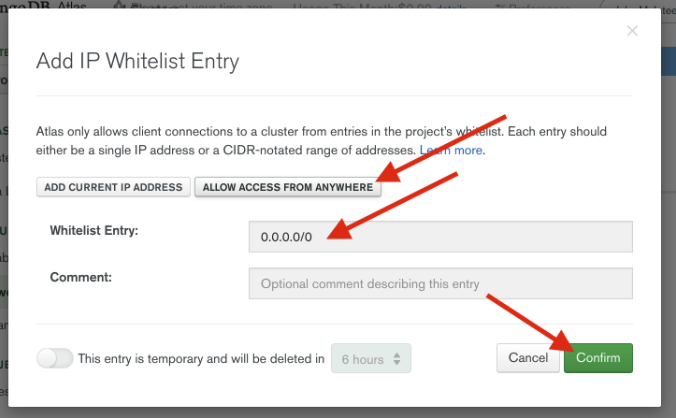
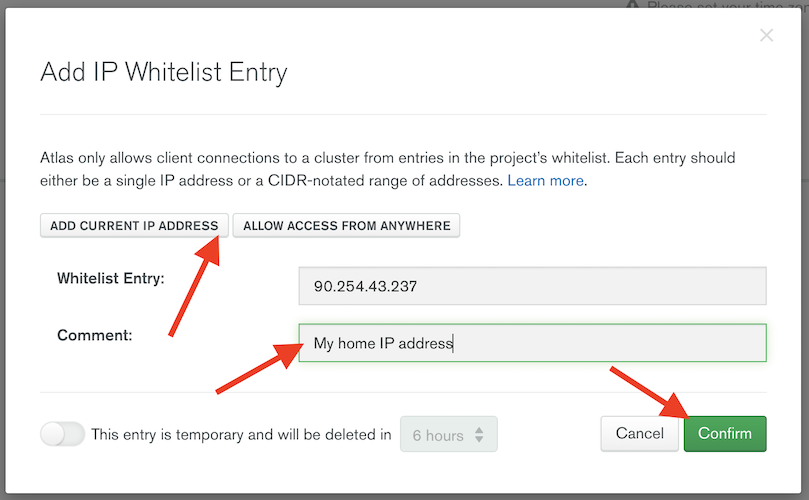
Added CRUD section, updated network access settings and added link to zip of sample files

diff --git a/docs/03-deploy-sample.md b/docs/03-deploy-sample.md
@@ -40,19 +40,20 @@ This file ([index.css](../sampleFiles/index.css)) is a simple style sheet which 
 3. Explain the Javascript structure
 4. Update the Stitch IDs
 
+
 # Updating and Hosting the Web Application
-## Downloading the Sample Files
-Download all three files to your desktop:
+## Downloading and Extract the Sample Files
+This repository has three sample files:
 - [index.html](../sampleFiles/index.html)
 - [app.js](../sampleFiles/app.js)
 - [index.css](../sampleFiles/index.css)
 
-***Note:** To download the files, click on each of the links above, then click **Raw**, then go to `File > Save Page As`.*
-
-***IMPORTANT:** Make sure you add the file type to each file (e.g. by adding `.html`, `.css` or `.app.js` to the end of each file name before you save it)*
+You need to download each of these files, which can be achieved by either;
+* Cloning this repository (if you're familiar with Git)
+* Downloading and extracting a zip file hosted on Google Drive: [mongodb-graphql-lab-samplefiles.zip](https://drive.google.com/file/d/1CzKfHdR0rwH1PO8jHKppQhDMaLTHgJC-/view?usp=sharing) (the download button is in the top right)
 
 ## Updating your app_id
-The app_id in the `app.js` file currently has a placeholder, but this needs to be updated with your Stitch App ID in order to have it use the GraphQL endpoint you created earlier. 
+The app_id in the `app.js` file currently has a placeholder value, but this needs to be updated with your Stitch App ID in order to have it use the GraphQL endpoint you created earlier. 
 
 Open your browser to MongoDB Stitch again, see in the top left hand area a box called `APP ID`. Copy this value.
 > <img src="./images/03-deploy-sample/deploy-1.png" height="300">

diff --git a/readme.md b/readme.md
@@ -1,5 +1,5 @@
 # MongoDB GraphQL Lab
-**Time to Complete:** 60 minutes
+**Time to Complete:** 45 minutes
 
 This is a tutorial on how to use [MongoDB Atlas](https://cloud.mongodb.com) and [MongoDB Stitch](https://www.mongodb.com/cloud/stitch) to create a flexible GraphQL API. 
 
@@ -46,6 +46,10 @@ To complete the lab, step into each of the guides described below in the order s
 Follow the documentation linked below to **deploy a MongoDB cluster** on MongoDB Atlas and load it with sample data. In particular, you will load a collection called `sample_mflix` which contains data regarding several thousand movies. 
 
 **Guide 1:** [Set up your MongoDB Atlas Cluster](docs/01-mongodb-atlas.md)
+
+If you aren't familiar with how data is stored in MongoDB and/or how to query it, it's probably worth also taking the time to explore the sample dataset using MongoDB Compass. This is not required in order to complete the rest of the lab. 
+
+**Guide 1-1:** [Explore the sample data with MongoDB Compass](docs/01-1-mongodb-compass.md) *(optional - additional 45 minutes)*
 
 ## 2. Create your MongoDB Stitch Application and Configure GraphQL
 In this section you will create a MongoDB Stitch application, before generating a GraphQL schema in order to **expose data through the GraphQL endpoint**. At the end of this section you will be able to access the data stored in your MongoDB Cluster (created in Step 1) through a hosted GraphQL endpoint.

diff --git a/docs/01-1-mongodb-compass.md b/docs/01-1-mongodb-compass.md
@@ -1,0 +1,18 @@
+Return to the home of this repository [here](../readme.md).
+
+# Managing Data on MongoDB Atlas Using Compass (optional)
+If you're completely new to MongoDB, it's worth familiarising yourself with the basic ways to **C**reate, **R**ead, **U**pdate and **D**elete (CRUD) data using our graphical tool - [MongoDB Compass](https://www.mongodb.com/products/compass). 
+
+This section will take approximately 45 minutes in addition to the core lab in this repository. To complete this section, complete the following guides on our Docs website:
+
+> **Note:** Make sure to select Deployment Type: `Cloud` and Client: `Compass` to see the right guide:
+1. [Connect to MongoDB](https://docs.mongodb.com/guides/server/drivers) (hint: use the username/password you created in the first section)
+2. [Insert Data into MongoDB](https://docs.mongodb.com/guides/server/insert/)
+3. [Read Data from MongoDB With Queries](https://docs.mongodb.com/guides/server/read_queries/)
+4. [Update Data in MongoDB](https://docs.mongodb.com/guides/server/update/)
+5. [Delete Data from MongoDB](https://docs.mongodb.com/guides/server/delete/)
+
+---
+**Congratulations** - you're now skilled up on the basic MongoDB CRUD operations using MongoDB Compass
+
+Return back to the [home page](../readme.md) to proceed to the next step.

diff --git a/docs/01-mongodb-atlas.md b/docs/01-mongodb-atlas.md
@@ -30,9 +30,9 @@ Return to the home of this repository [here](../readme.md).
 
 > <img src="./images/01-mongodb-atlas/atlas-7.png" height="300">
 
-* Select “Allow Access from Anywhere” for the purpose of this demo, select "Save as temporary whitelist" and click on “Confirm”.  
+* Select `Add Current IP Address` for the purpose of this demo and click on “Confirm”.  
 
-*Note*:  When running a cluster in production, you will want to narrow the scope of where your database can be accessed and specify a specific IP address/CIDR block and/or using VPC peered connection. For this demo we are creating a temporary whitelist entry which will automatically be removed after the specified period of time, preventing general access to the cluster.
+*Note*:  When running a cluster in production, you will want to narrow the scope of where your database can be accessed and specify a specific IP address/CIDR block and/or using VPC peered connection. For this demo we are creating a temporary whitelist with only the IP address of the internet connection you are working from.
 
 > <img src="./images/01-mongodb-atlas/atlas-8.png" height="300">
 
